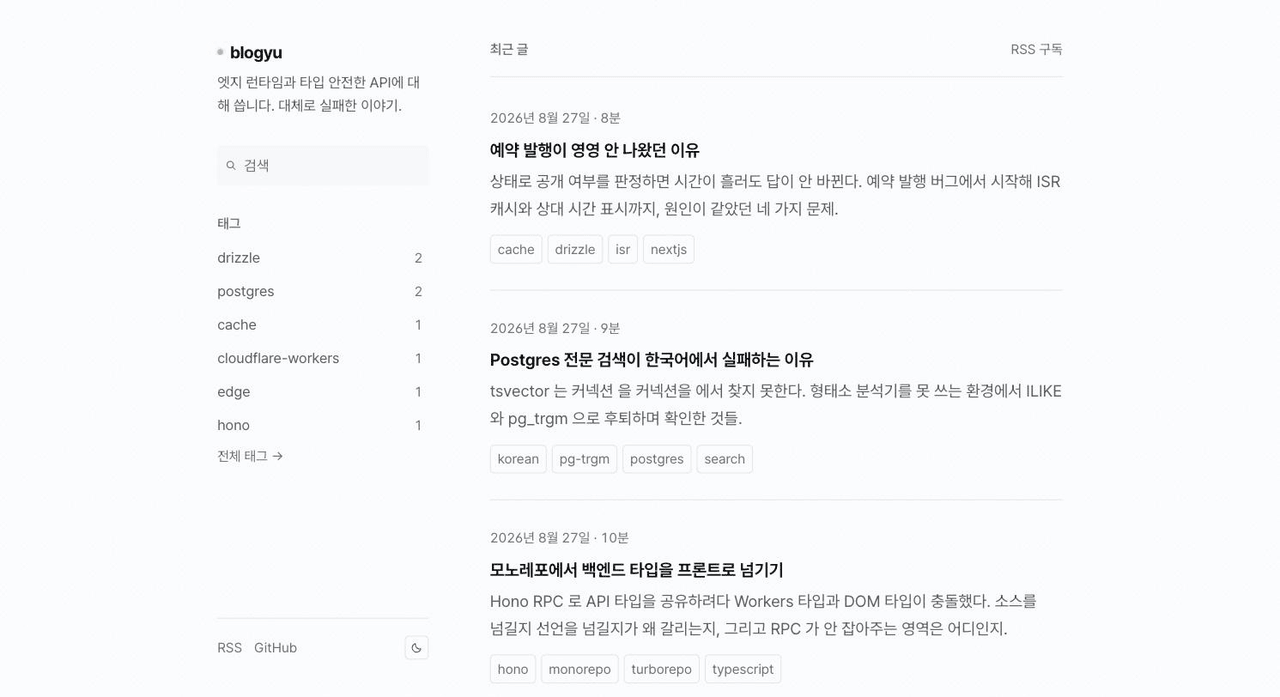
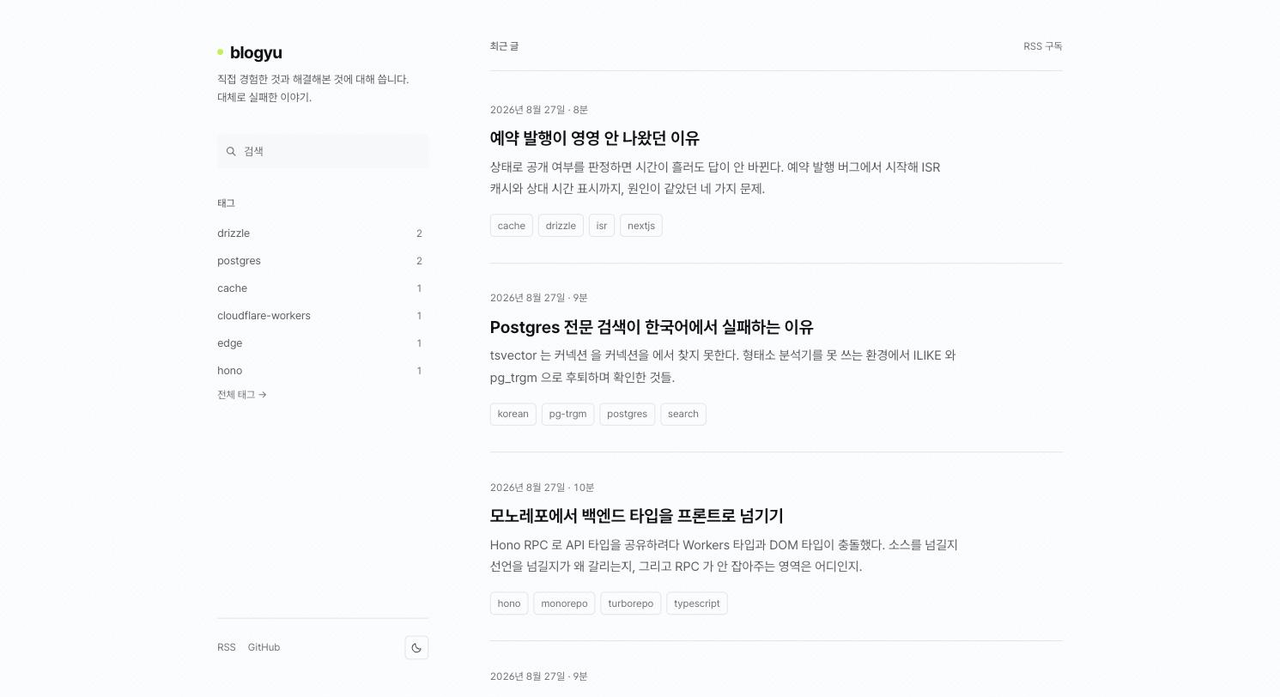
[DOCS] 소개 둘째 문장을 줄바꿈하고 스크린샷을 갱신함
사이드바에서 "대체로 실패한 이야기."를 다음 줄로 내린다. 사이드바 폭이
좁아 그냥 두면 문장이 어디서 끊길지 폭에 따라 달라진다.

meta description 은 한 줄 문자열이라 그대로 둔다 — 줄바꿈이 렌더되지
않고 검색 결과에서도 무시된다.

스크린샷은 바뀐 문구가 반영되도록 다시 찍었다.

Claude-Session: https://claude.ai/code/session_01Bqxgt5ij7pidWyv7W6KZXq

diff --git a/apps/web/src/components/sidebar.tsx b/apps/web/src/components/sidebar.tsx
@@ -39,7 +39,9 @@ export async function Sidebar({ toc }: { toc?: ReactNode }) {
           blogyu
         </span>
         <span className="mt-2 block text-[0.8125rem] text-fg-muted leading-relaxed">
-          직접 경험한 것과 해결해본 것에 대해 씁니다. 대체로 실패한 이야기.
+          직접 경험한 것과 해결해본 것에 대해 씁니다.
+          <br />
+          대체로 실패한 이야기.
         </span>
       </Link>
 
